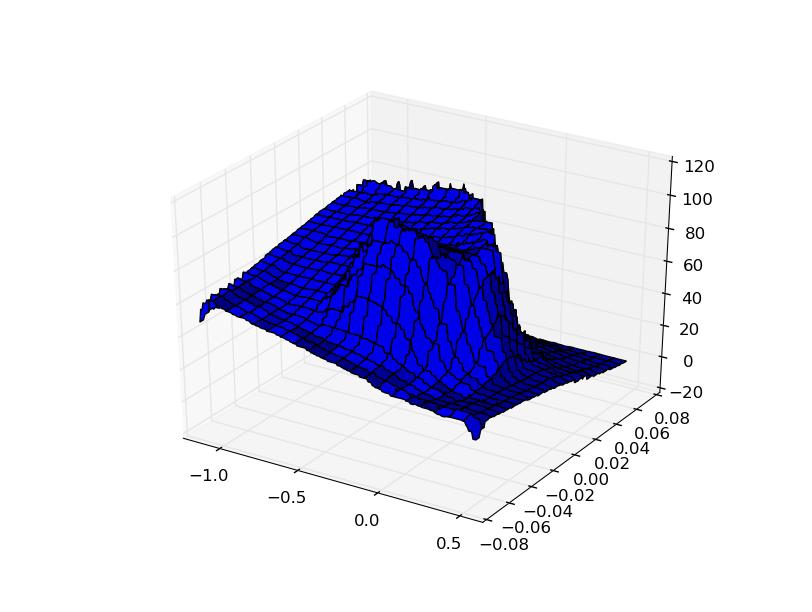
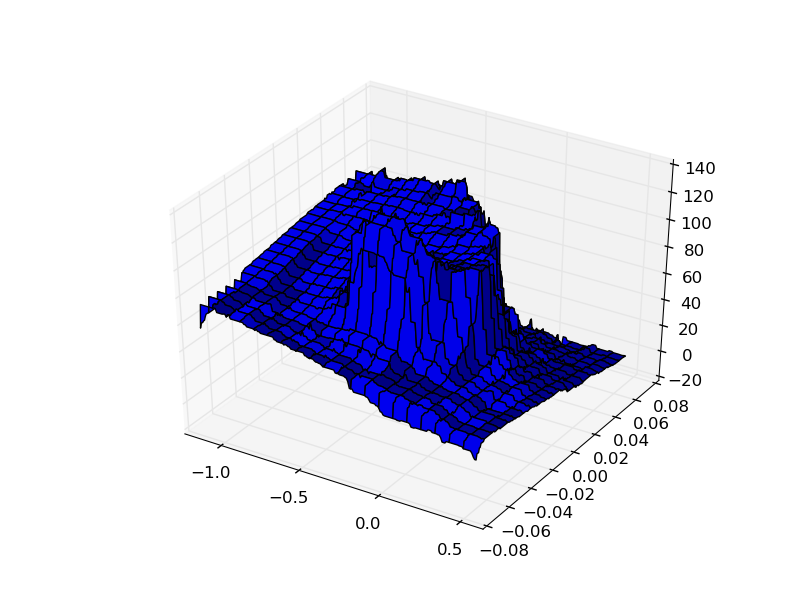
use replacing trace

diff --git a/pythonCode(2nd_edition)/chapter9/example9_2.py b/pythonCode(2nd_edition)/chapter9/example9_2.py
@@ -76,7 +76,7 @@ for k in xrange(10000):
         #     e = 0
         newp, newv, reward = take_action(p, v, a)
         delta = reward - temp_q[a+1]
-        e = indices[a+1]
+        e[indices[a+1]==1] = 1
         if reward == 0:
             theta += alpha * delta * e
             break
